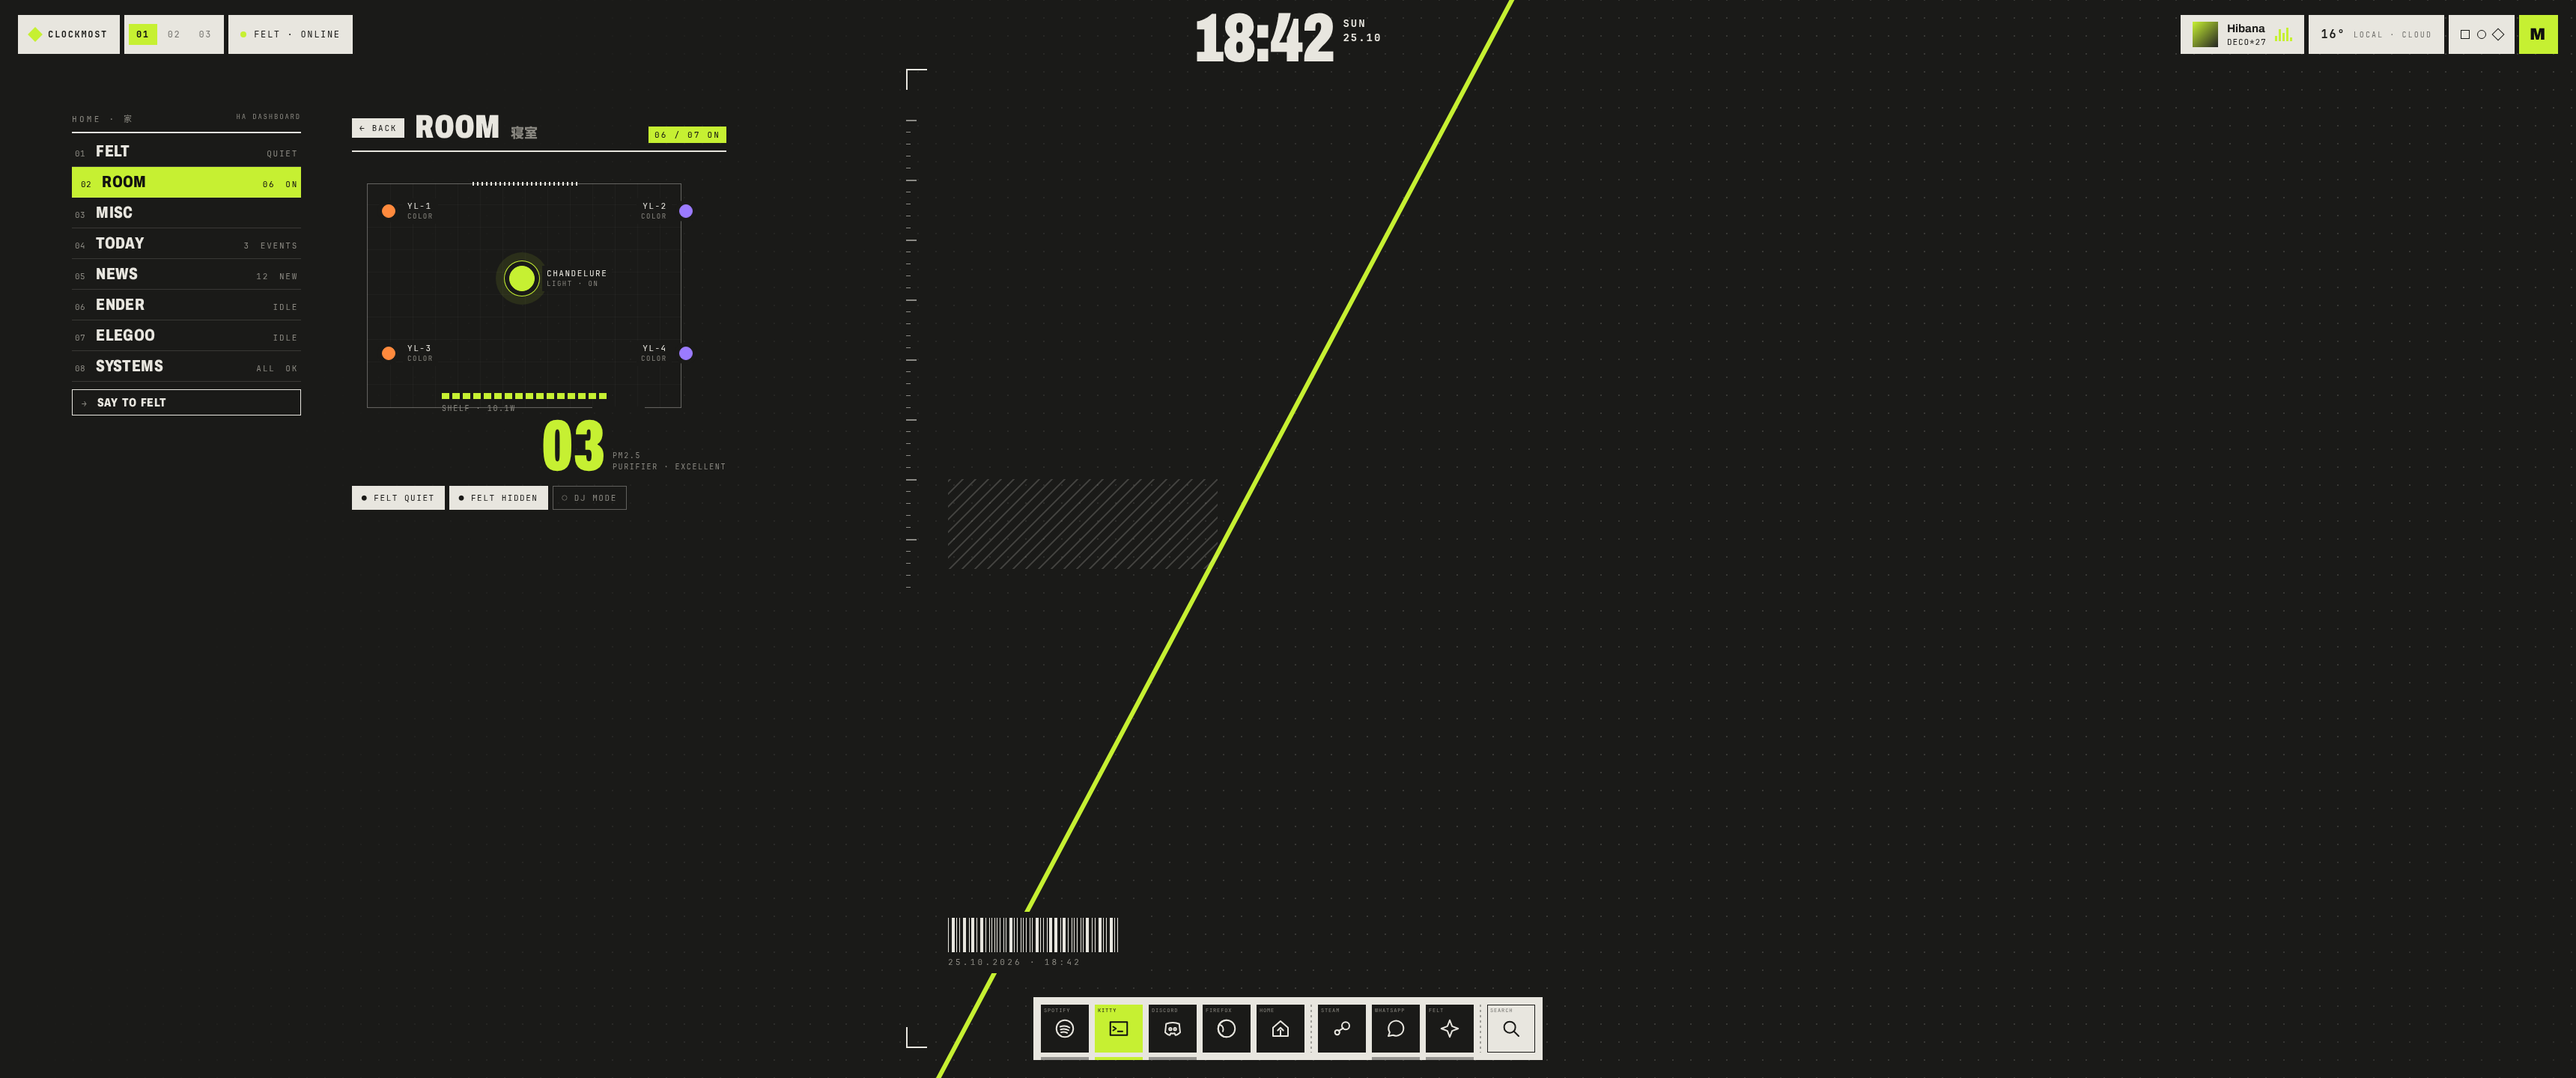
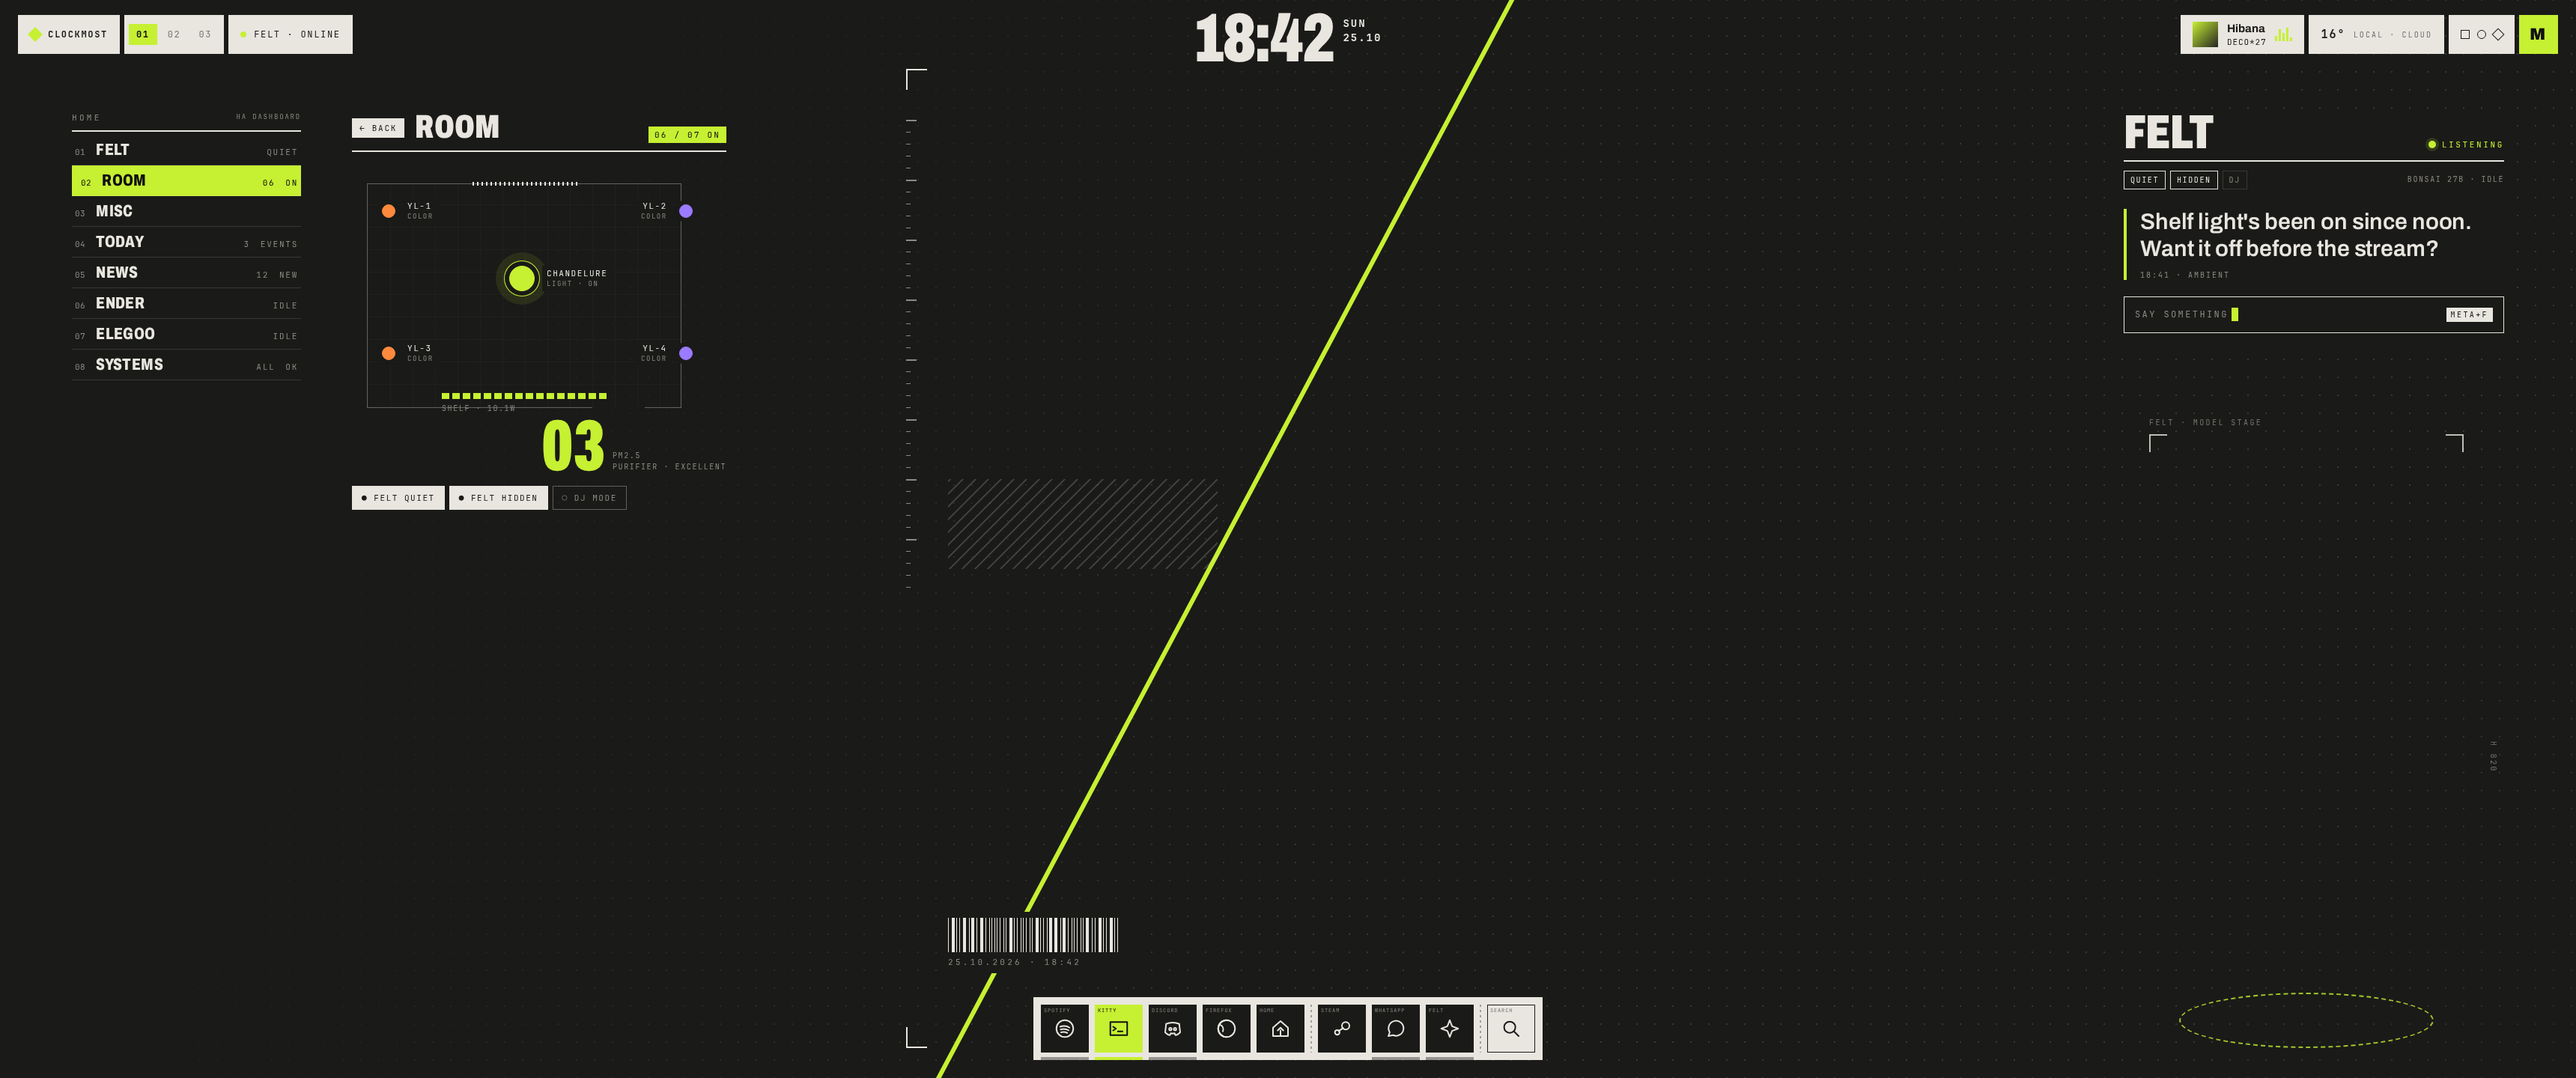
design: v2 - drop spec block + Japanese text, add Felt column and model stage
Claude-Session: https://claude.ai/code/session_01TfCpBtvRHaocFGh62LwrkG

diff --git a/design/v2-2026-10-25/felt.css b/design/v2-2026-10-25/felt.css
@@ -1,0 +1,155 @@
+/* Felt's column (right side, fixed like the bar) + the stage her 3D model stands on. */
+
+.felt-col {
+  position: absolute;
+  right: 96px;
+  top: 150px;
+  width: 520px;
+  z-index: 2;
+  font-family: "JetBrains Mono", monospace;
+  color: var(--ink);
+  background: var(--bg);
+  padding: 0 0 12px 12px;
+}
+
+.fc-head {
+  display: flex;
+  align-items: baseline;
+  justify-content: space-between;
+  padding-bottom: 10px;
+  border-bottom: 2px solid var(--ink);
+}
+.fc-head b {
+  font-family: "Archivo", sans-serif;
+  font-weight: 900;
+  font-stretch: 70%;
+  font-size: 64px;
+  line-height: 0.85;
+}
+.fc-state {
+  display: flex;
+  align-items: center;
+  gap: 8px;
+  font-size: 11px;
+  letter-spacing: 0.24em;
+  color: var(--acc);
+}
+.fc-state i {
+  width: 10px;
+  height: 10px;
+  border-radius: 50%;
+  background: var(--acc);
+  box-shadow: 0 0 0 4px #c6f03226;
+}
+
+.fc-chips {
+  display: flex;
+  gap: 6px;
+  margin-top: 12px;
+}
+.fc-chips span {
+  font-size: 10px;
+  letter-spacing: 0.16em;
+  padding: 5px 8px;
+  border: 1px solid var(--line);
+  color: var(--ink2);
+}
+.fc-chips span.on {
+  border-color: var(--ink);
+  color: var(--ink);
+}
+.fc-chips span:last-child {
+  margin-left: auto;
+  border: 0;
+  padding-right: 0;
+}
+
+.fc-line {
+  margin-top: 26px;
+  font-family: "Archivo", sans-serif;
+  font-weight: 600;
+  font-size: 30px;
+  line-height: 1.18;
+  letter-spacing: -0.005em;
+  padding-left: 18px;
+  border-left: 4px solid var(--acc);
+}
+.fc-line cite {
+  display: block;
+  margin-top: 12px;
+  font-family: "JetBrains Mono", monospace;
+  font-style: normal;
+  font-weight: 400;
+  font-size: 10px;
+  letter-spacing: 0.2em;
+  color: var(--ink2);
+}
+
+.fc-input {
+  display: flex;
+  align-items: center;
+  gap: 4px;
+  margin-top: 22px;
+  padding: 14px 14px;
+  border: 1.5px solid var(--ink);
+  font-size: 12px;
+  letter-spacing: 0.2em;
+  color: var(--ink2);
+}
+.fc-input i {
+  width: 9px;
+  height: 18px;
+  background: var(--acc);
+}
+.fc-input kbd {
+  margin-left: auto;
+  font-family: inherit;
+  font-size: 10px;
+  padding: 3px 6px;
+  background: var(--ink);
+  color: var(--bg);
+}
+
+/* where the overlay model stands: floor marks + a frame, bottom right */
+.felt-stage {
+  position: absolute;
+  right: 150px;
+  bottom: 40px;
+  width: 420px;
+  height: 820px;
+  z-index: 1;
+  background:
+    linear-gradient(var(--ink), var(--ink)) left top / 24px 2px no-repeat,
+    linear-gradient(var(--ink), var(--ink)) left top / 2px 24px no-repeat,
+    linear-gradient(var(--ink), var(--ink)) right top / 24px 2px no-repeat,
+    linear-gradient(var(--ink), var(--ink)) right top / 2px 24px no-repeat;
+  opacity: 0.8;
+}
+.felt-stage::after {
+  /* the floor: an ellipse of dashes she stands on */
+  content: "";
+  position: absolute;
+  left: 40px;
+  right: 40px;
+  bottom: 0;
+  height: 70px;
+  border: 2px dashed var(--acc);
+  border-radius: 50%;
+}
+.fs-tag,
+.fs-dim {
+  position: absolute;
+  font-family: "JetBrains Mono", monospace;
+  font-size: 10px;
+  letter-spacing: 0.24em;
+  color: var(--ink2);
+}
+.fs-tag {
+  left: 0;
+  top: -22px;
+}
+.fs-dim {
+  right: -46px;
+  top: 50%;
+  writing-mode: vertical-rl;
+}

diff --git a/design/v2-2026-10-25/idle.html b/design/v2-2026-10-25/idle.html
@@ -10,6 +10,7 @@
     />
     <link rel="stylesheet" href="idle.css" />
     <link rel="stylesheet" href="ha.css" />
+    <link rel="stylesheet" href="felt.css" />
   </head>
   <body>
     <!-- Stop 1: idle desktop, nothing open. ?v=paper|graphite|cobalt picks the direction. Layout only. -->
@@ -19,7 +20,7 @@
         <section class="ha-sec">
           <header class="ha-head">
             <button class="ha-back">&larr; BACK</button>
-            <b>ROOM</b><span class="jp">寝室</span>
+            <b>ROOM</b>
             <em>06 / 07 ON</em>
           </header>
           <div class="plan">
@@ -44,22 +45,13 @@
           </div>
         </section>
         <div class="slab"></div>
-        <div class="ghost">
-          <span class="ghost-jp">待機</span>
-        </div>
+
         <div class="reg tl"></div>
         <div class="reg tr"></div>
         <div class="reg bl"></div>
         <div class="reg br"></div>
         <div class="ruler"></div>
         <div class="hatch"></div>
-        <div class="spec">
-          <b>CLOCKMOST / DT-01</b>
-          <span>DP-2 &middot; 1920&times;1080 &middot; 165HZ</span>
-          <span>STATE ......... IDLE</span>
-          <span>WINDOWS ....... 00</span>
-          <span>UPTIME ........ 00:04:12</span>
-        </div>
         <div class="code">
           <div class="barcode" id="barcode"></div>
           <span id="barcode-txt"></span>
@@ -68,7 +60,7 @@
 
       <!-- Home Assistant: a list of sections; clicking one shifts the desktop to show it (?ha=bedroom) -->
       <nav class="ha-list">
-        <span class="ha-title">HOME &middot; 家 <small>HA DASHBOARD</small></span>
+        <span class="ha-title">HOME <small>HA DASHBOARD</small></span>
         <a data-sec="felt"><i>01</i>FELT<em>QUIET</em></a>
         <a data-sec="room"><i>02</i>ROOM<em>06 ON</em></a>
         <a data-sec="misc"><i>03</i>MISC<em></em></a>
@@ -77,10 +69,27 @@
         <a data-sec="ender"><i>06</i>ENDER<em>IDLE</em></a>
         <a data-sec="elegoo"><i>07</i>ELEGOO<em>IDLE</em></a>
         <a data-sec="systems"><i>08</i>SYSTEMS<em>ALL OK</em></a>
-        <a data-sec="say" class="say"><i>&rarr;</i>SAY TO FELT</a>
       </nav>
 
-
+      <!-- Felt: her column on the right - status, last line, talk box; her 3D model stands on the marked stage -->
+      <aside class="felt-col">
+        <header class="fc-head">
+          <b>FELT</b>
+          <span class="fc-state"><i></i>LISTENING</span>
+        </header>
+        <div class="fc-chips">
+          <span class="on">QUIET</span><span class="on">HIDDEN</span><span>DJ</span><span>BONSAI 27B &middot; IDLE</span>
+        </div>
+        <blockquote class="fc-line">
+          Shelf light's been on since noon. Want it off before the stream?
+          <cite>18:41 &middot; AMBIENT</cite>
+        </blockquote>
+        <div class="fc-input">SAY SOMETHING<i></i><kbd>META+F</kbd></div>
+      </aside>
+      <div class="felt-stage">
+        <span class="fs-tag">FELT &middot; MODEL STAGE</span>
+        <span class="fs-dim">H 820</span>
+      </div>
 
       <header class="bar">
         <div class="bar-left">
